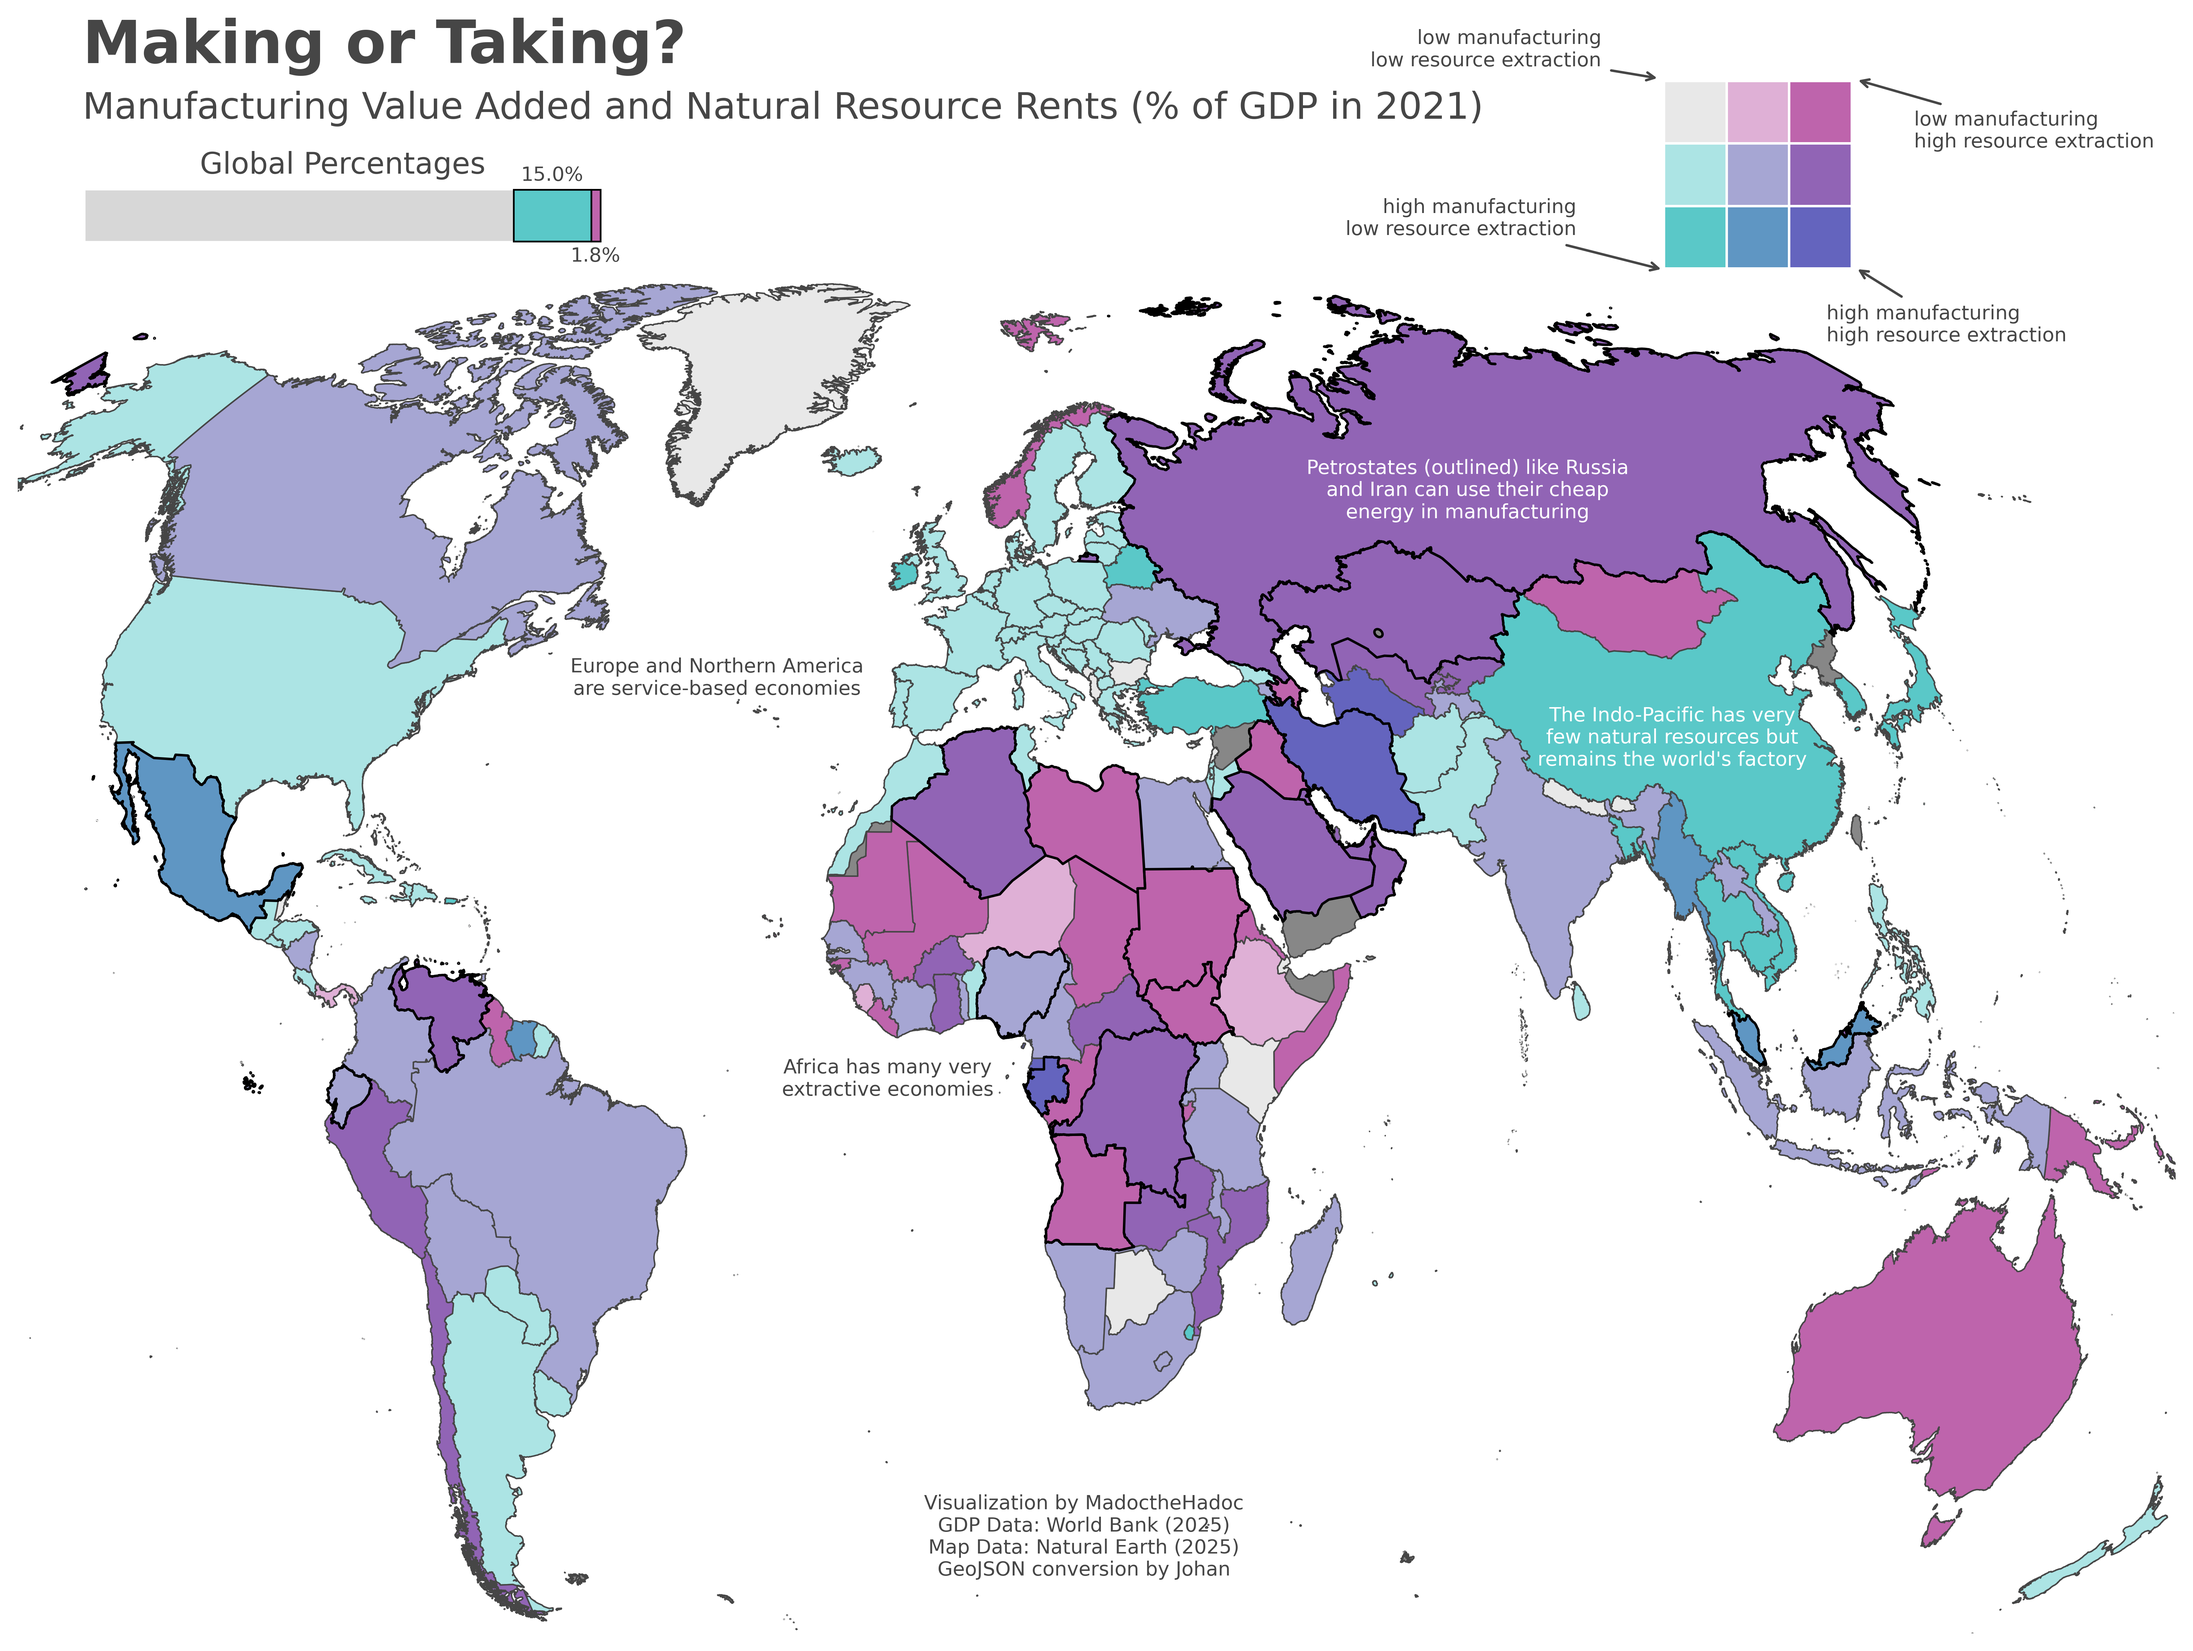
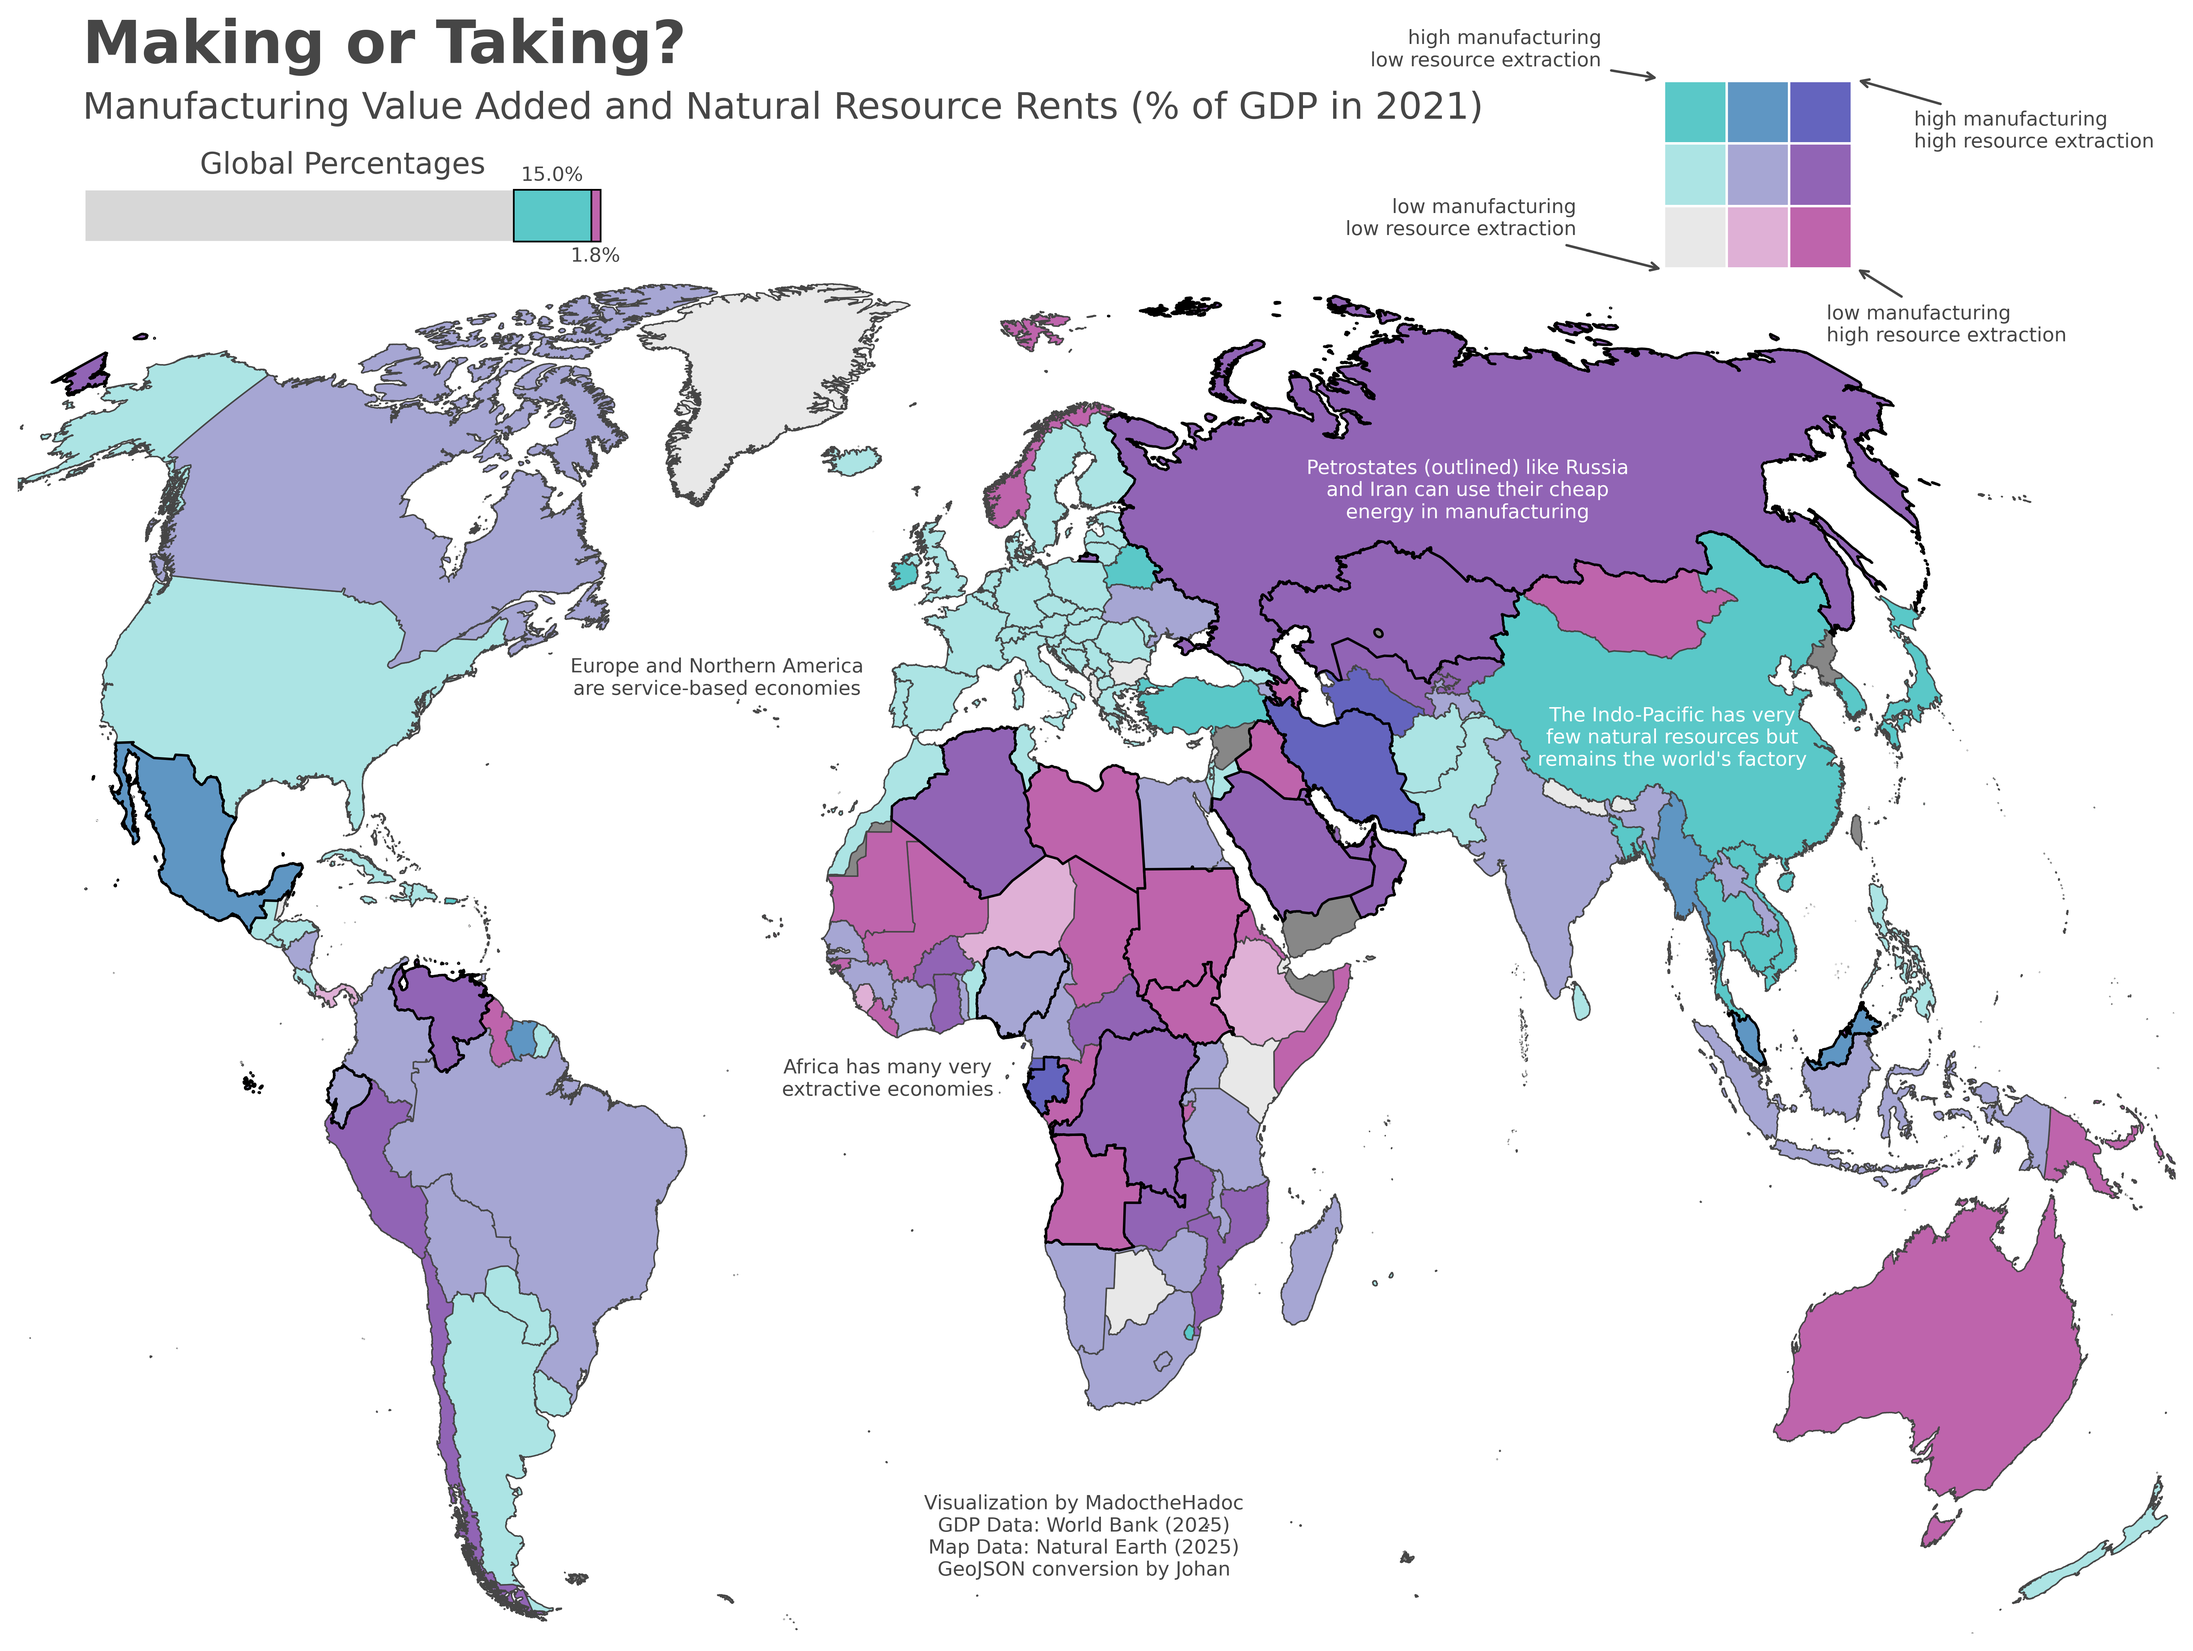
Flipped Legend

diff --git a/scripts/ResourcesManufacturing.py b/scripts/ResourcesManufacturing.py
@@ -199,27 +199,27 @@ def create_simplified_legend(fig, ax, colors, man_bins, res_bins):
     man_length = len(man_bins) - 1
 
     # Draw colored squares
-    for i in range(res_length):
+    for i in range(res_length-1, -1, -1):
         for j in range(man_length):
             color_idx = i * man_length + j
-            legend_ax.add_patch(plt.Rectangle((j, res_length-1-i), 1, 1, facecolor=colors[color_idx], edgecolor='white'))
+            legend_ax.add_patch(plt.Rectangle((j, i), 1, 1, facecolor=colors[color_idx], edgecolor='white'))
 
     # Define the labels and positions for each corner
     smol = 0.03
     corners = [
-        {"label": "low manufacturing\nlow resource extraction",
+        {"label": "high manufacturing\nlow resource extraction",
          "xy": (-smol, res_length + smol),
          "xytext": (-1.0, res_length + 0.5),
          "ha": 'right'},
-        {"label": "low manufacturing\nhigh resource extraction",
+        {"label": "high manufacturing\nhigh resource extraction",
          "xy": (man_length + smol, res_length + smol),
          "xytext": (man_length + 1.0, res_length - 0.8),
          "ha": 'left'},
-        {"label": "high manufacturing\nlow resource extraction",
+        {"label": "low manufacturing\nlow resource extraction",
          "xy": (smol, -smol),
          "xytext": (-1.4, 0.8),
          "ha": 'right'},
-        {"label": "high manufacturing\nhigh resource extraction",
+        {"label": "low manufacturing\nhigh resource extraction",
          "xy": (man_length + smol, smol),
          "xytext": (man_length - 0.4, -0.9),
          "ha": 'left'}
